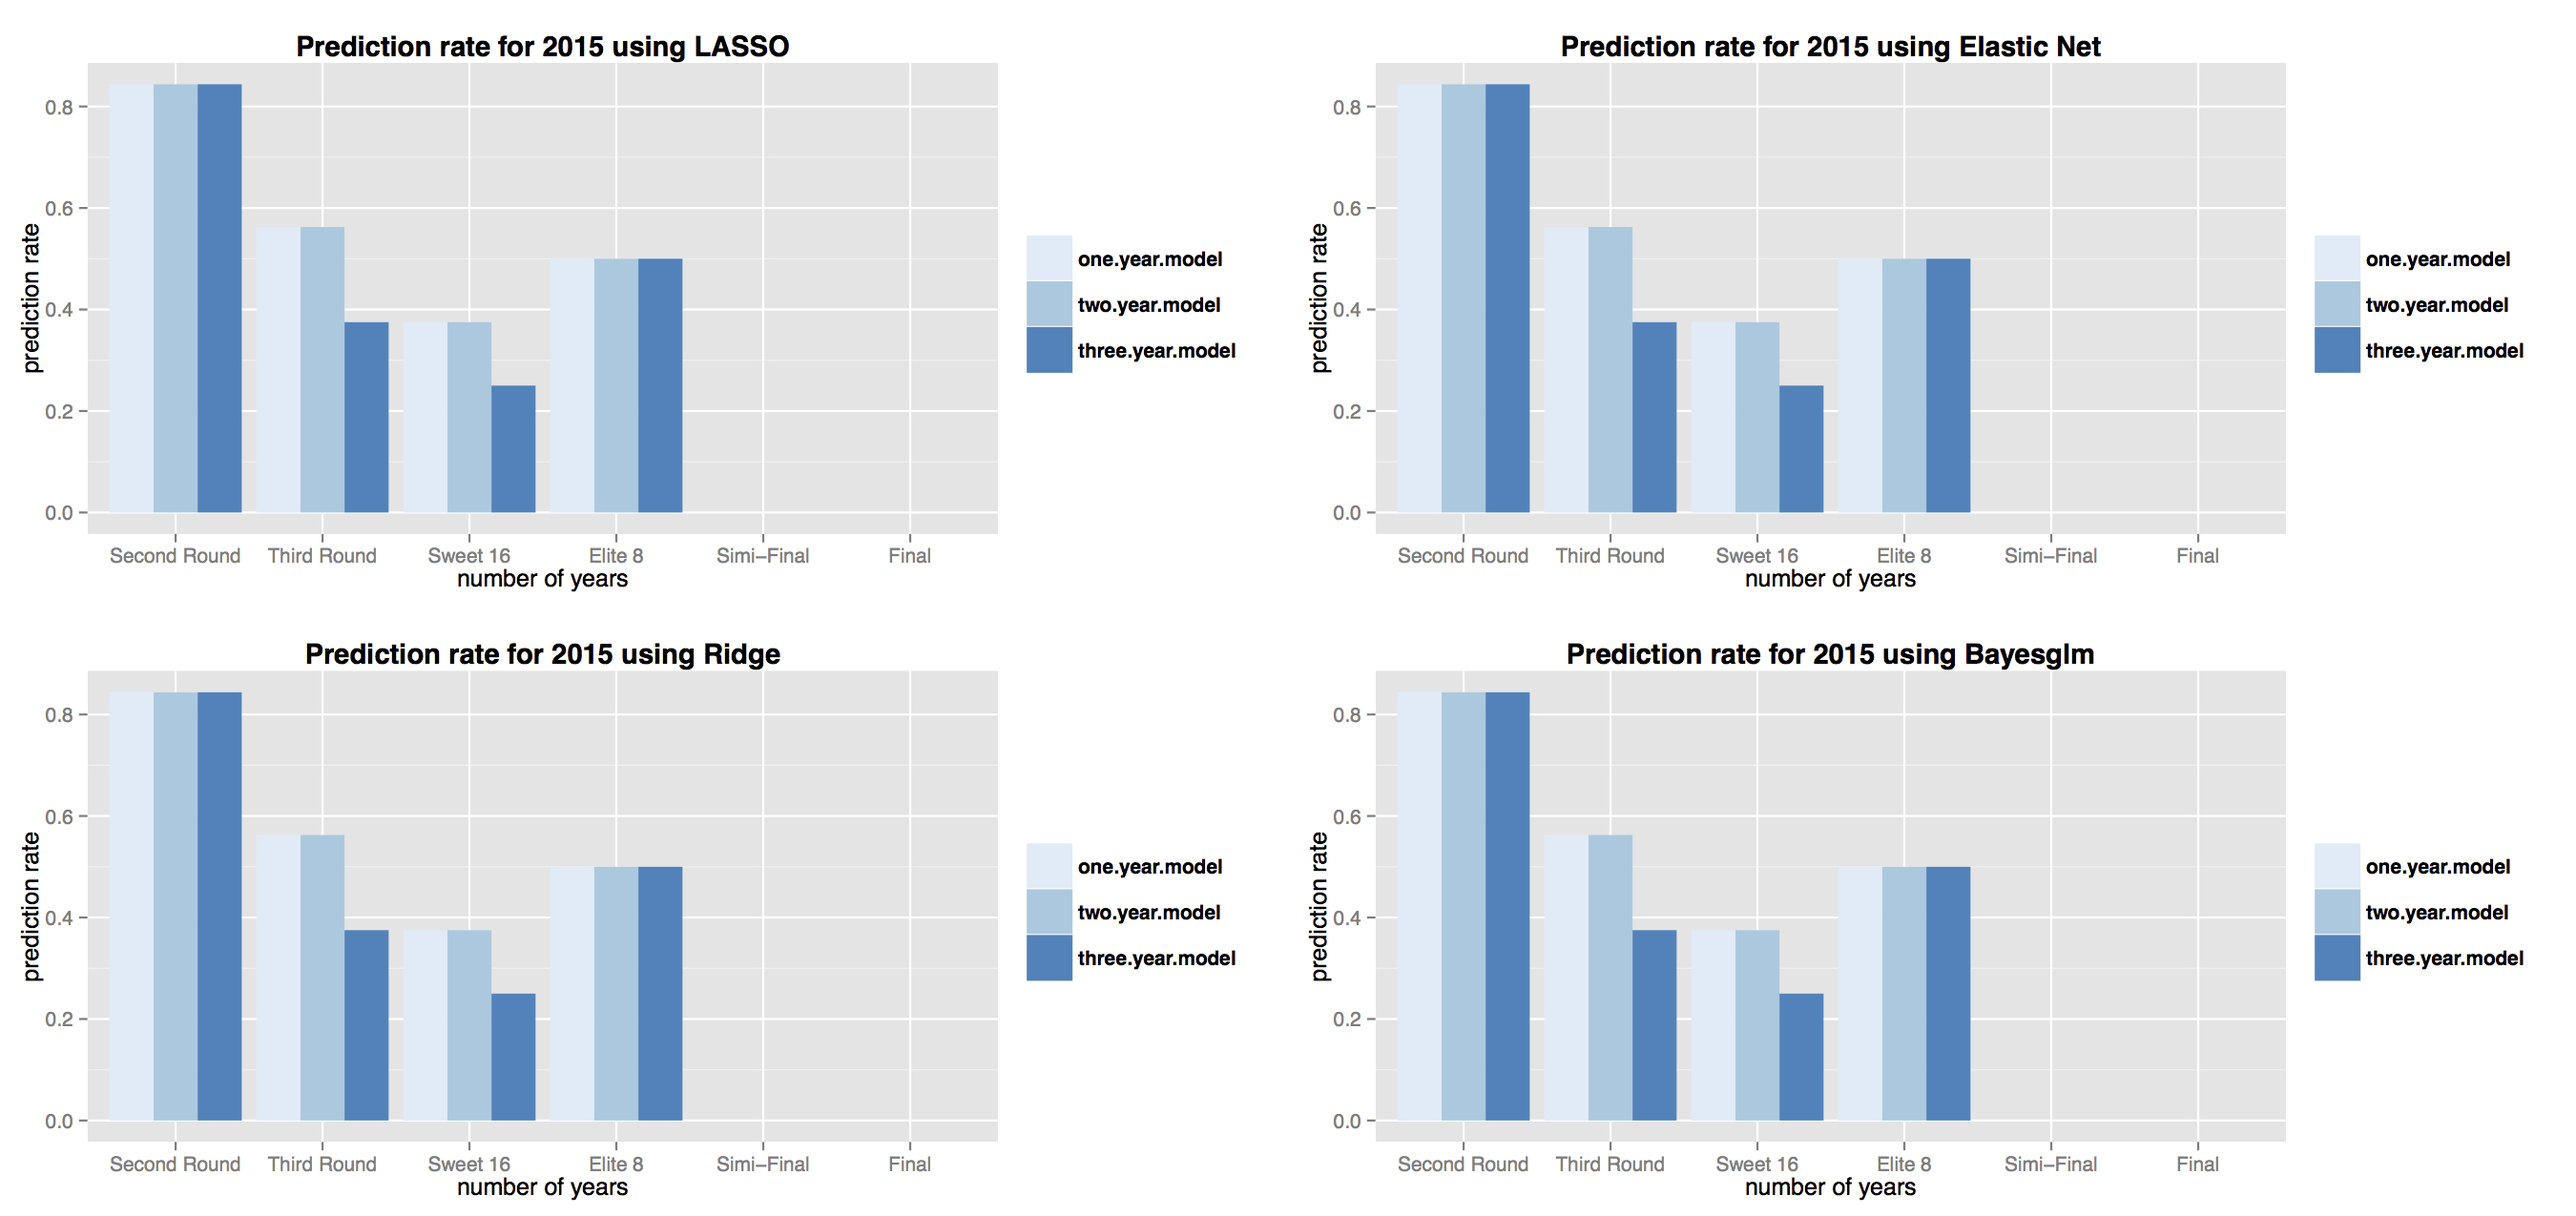
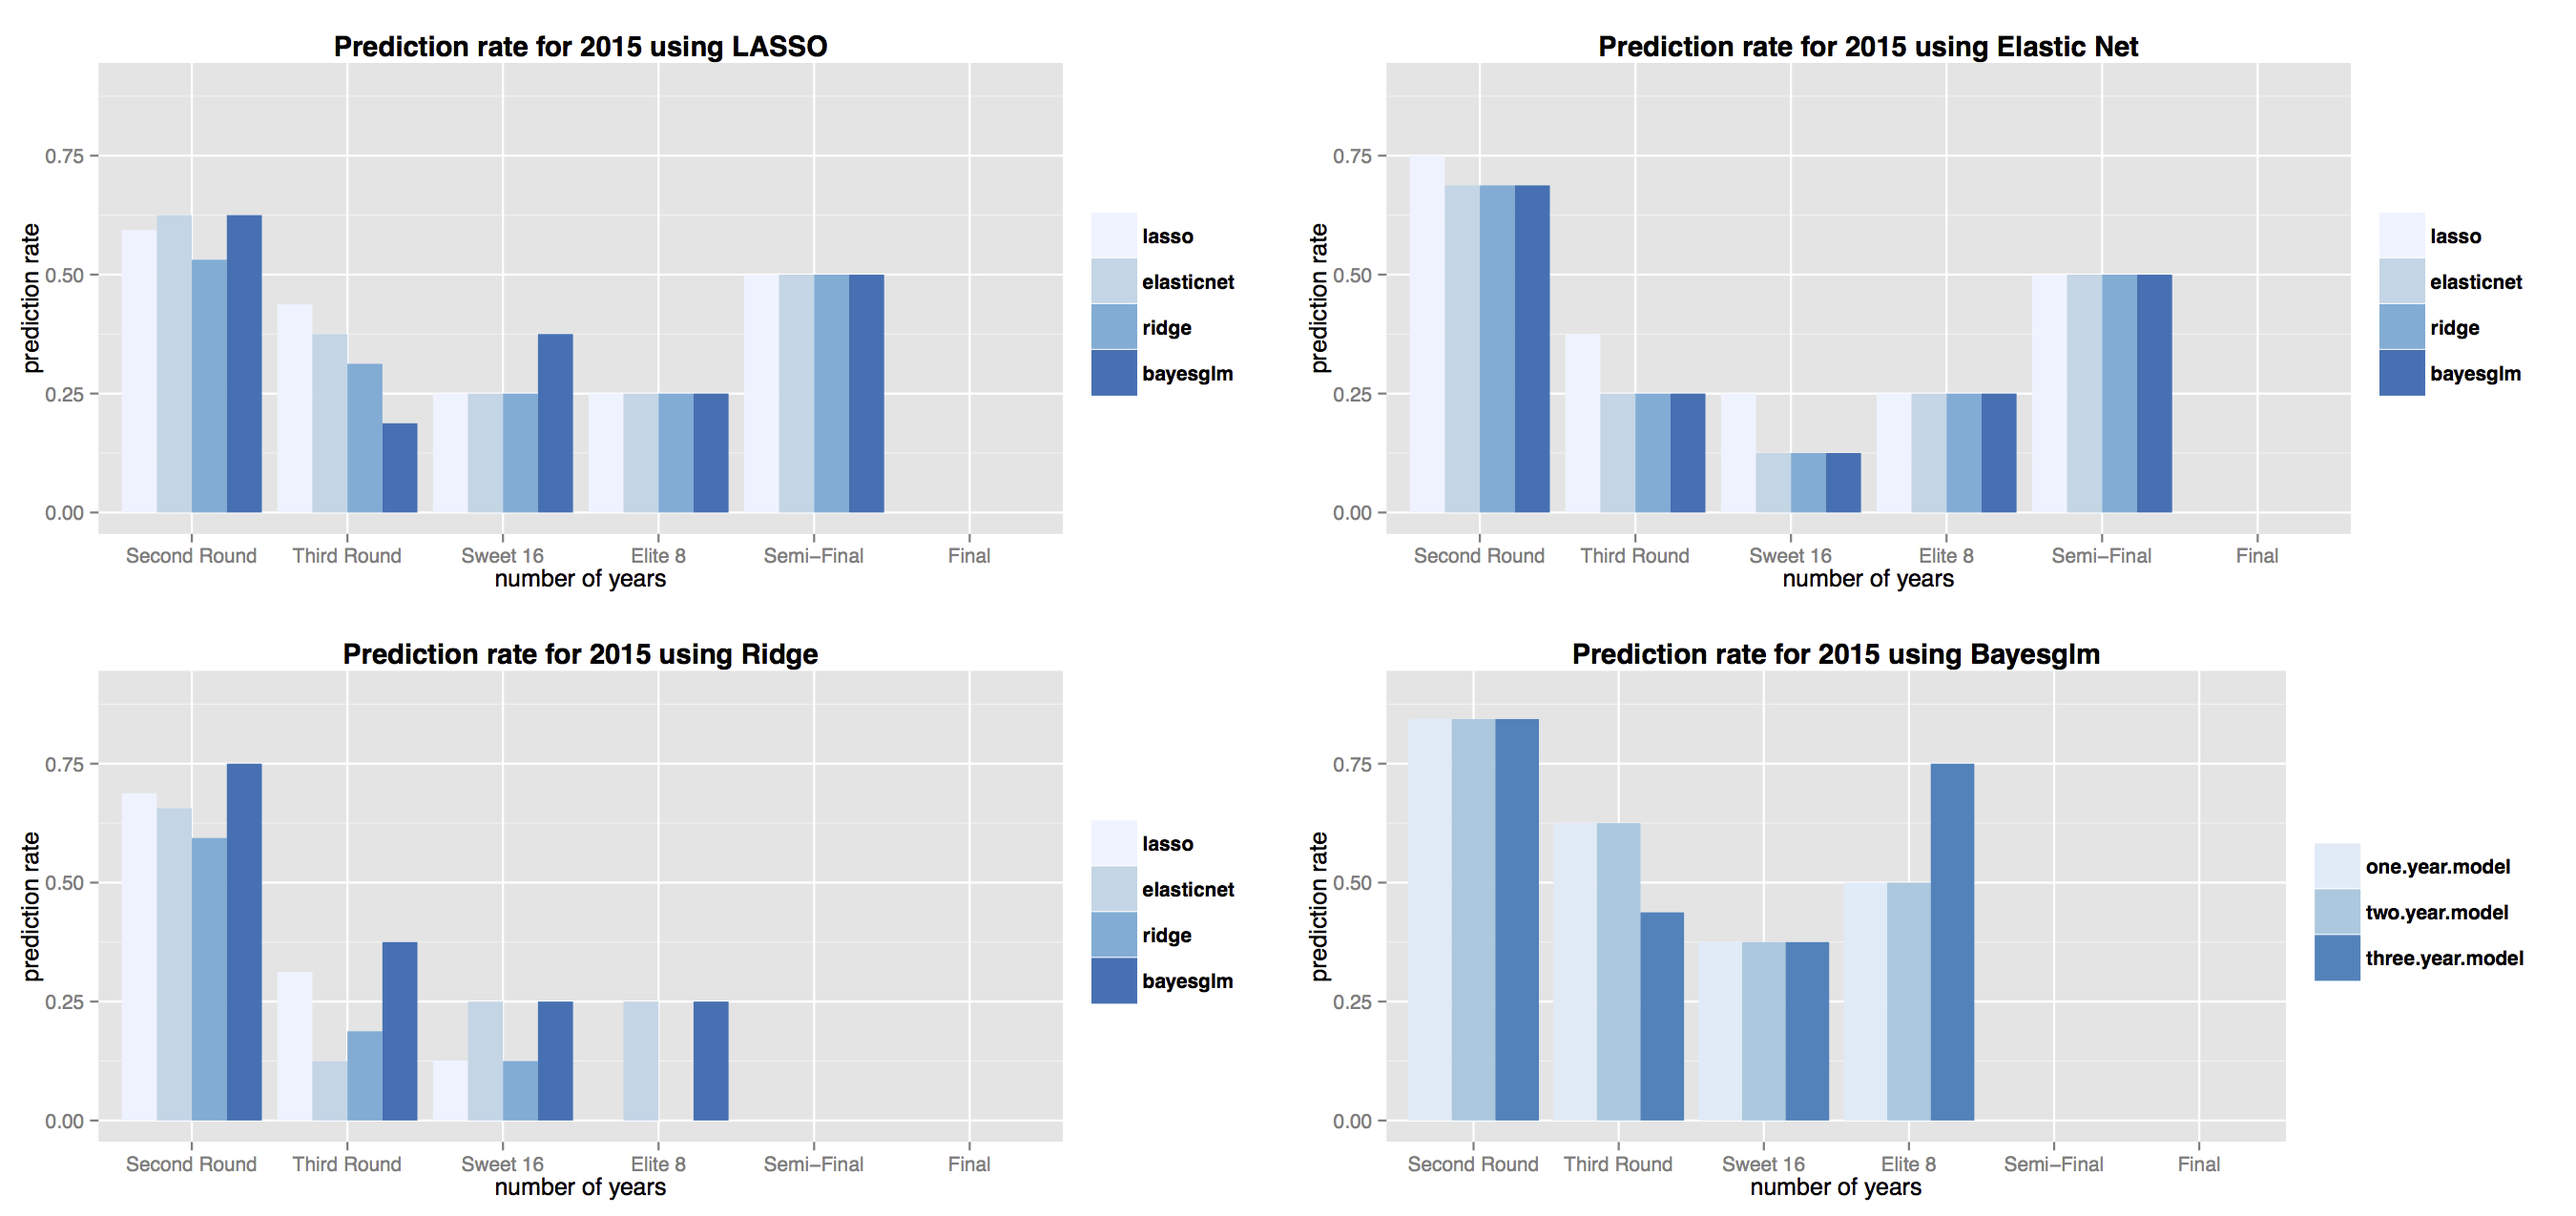
revise jpg

diff --git a/SakaiAtMidnight_Project.tex b/SakaiAtMidnight_Project.tex
@@ -218,50 +218,16 @@ This further suggests that if we want to incorporate team specifics into our mod
   \hline
  & LASSO & Elastic Net & Ridge & Bayesglm \\ 
   \hline
-Second Round & 0.594 & 0.625 & 0.531 & 0.625 \\ 
-  Third Round & 0.438 & 0.375 & 0.312 & 0.188 \\ 
-  Sweet 16 & 0.250 & 0.250 & 0.250 & 0.375 \\ 
-  Elite 8 & 0.250 & 0.250 & 0.250 & 0.250 \\ 
-  Simi-Final & 0.500 & 0.500 & 0.500 & 0.500 \\ 
+Second Round & 0.844 & 0.844 & 0.844 & 0.844 \\ 
+  Third Round & 0.375 & 0.438 & 0.500 & 0.562 \\ 
+  Sweet 16 & 0.250 & 0.375 & 0.375 & 0.375 \\ 
+  Elite 8 & 0.500 & 0.750 & 0.750 & 0.750 \\ 
+  Semi-Final & 0.000 & 0.000 & 0.000 & 0.000 \\ 
   Final & 0.000 & 0.000 & 0.000 & 0.000 \\ 
    \hline
 \end{tabular}
 }
-\caption{Prediction rate for each round in 2012}\ 
-
-\centering
-{\small
-\begin{tabular}{rrrrr}
-  \hline
- & LASSO & Elastic Net & Ridge & Bayesglm \\ 
-  \hline
-Second Round & 0.750 & 0.688 & 0.688 & 0.688 \\ 
-  Third Round & 0.375 & 0.250 & 0.250 & 0.250 \\ 
-  Sweet 16 & 0.250 & 0.125 & 0.125 & 0.125 \\ 
-  Elite 8 & 0.250 & 0.250 & 0.250 & 0.250 \\ 
-  Simi-Final & 0.500 & 0.500 & 0.500 & 0.500 \\ 
-  Final & 0.000 & 0.000 & 0.000 & 0.000 \\ 
-   \hline
-\end{tabular}
-}
-\caption{Prediction rate for each round in 2013}\ 
-
-\centering
-{\small
-\begin{tabular}{rrrrr}
-  \hline
- & LASSO & Elastic Net & Ridge & Bayesglm \\ 
-  \hline
-Second Round & 0.688 & 0.656 & 0.594 & 0.750 \\ 
-  Third Round & 0.312 & 0.125 & 0.188 & 0.375 \\ 
-  Sweet 16 & 0.125 & 0.250 & 0.125 & 0.250 \\ 
-  Elite 8 & 0.000 & 0.250 & 0.000 & 0.250 \\ 
-  Simi-Final & 0.000 & 0.000 & 0.000 & 0.000 \\ 
-  Final & 0.000 & 0.000 & 0.000 & 0.000 \\ 
-   \hline
-\end{tabular}
-}
-\caption{Prediction rate for each round in 2014}\ 
+\caption{Prediction rate for each round in 2015 using regular season data from 2013-2015}\
 
 \centering
 {\small
@@ -273,12 +239,12 @@ Second Round & 0.844 & 0.844 & 0.875 & 0.875 \\
   Third Round & 0.562 & 0.625 & 0.500 & 0.500 \\ 
   Sweet 16 & 0.375 & 0.375 & 0.375 & 0.375 \\ 
   Elite 8 & 0.500 & 0.500 & 0.750 & 0.750 \\ 
-  Simi-Final & 0.000 & 0.000 & 0.000 & 0.000 \\ 
+  Semi-Final & 0.000 & 0.000 & 0.000 & 0.000 \\ 
   Final & 0.000 & 0.000 & 0.000 & 0.000 \\ 
    \hline
 \end{tabular}
 }
-\caption{Prediction rate for each round in 2015}\
+\caption{Prediction rate for each round in 2015 using regular season data for 2015}\
 
 \centering
 {\small
@@ -286,12 +252,12 @@ Second Round & 0.844 & 0.844 & 0.875 & 0.875 \\
   \hline
  & LASSO & Elastic Net & Ridge & Bayesglm \\ 
   \hline
-Second Round & 0.84 & 0.84 & 0.88 & 0.88 \\ 
-  Third Round & 0.56 & 0.62 & 0.50 & 0.50 \\ 
-  Sweet 16 & 0.38 & 0.38 & 0.38 & 0.38 \\ 
-  Elite 8 & 0.50 & 0.50 & 0.75 & 0.75 \\ 
-  Semi-Final & 0.00 & 0.00 & 0.00 & 0.00 \\ 
-  Final & 0.00 & 0.00 & 0.00 & 0.00 \\ 
+Second Round & 0.844 & 0.844 & 0.875 & 0.875 \\ 
+  Third Round & 0.562 & 0.625 & 0.500 & 0.500 \\ 
+  Sweet 16 & 0.375 & 0.375 & 0.375 & 0.375 \\ 
+  Elite 8 & 0.500 & 0.500 & 0.750 & 0.750 \\ 
+  Semi-Final & 0.000 & 0.000 & 0.000 & 0.000 \\ 
+  Final & 0.000 & 0.000 & 0.000 & 0.000 \\ 
    \hline
 \end{tabular}
 }
@@ -303,16 +269,51 @@ Second Round & 0.84 & 0.84 & 0.88 & 0.88 \\
   \hline
  & LASSO & Elastic Net & Ridge & Bayesglm \\ 
   \hline
-Second Round & 0.84 & 0.84 & 0.84 & 0.84 \\ 
-  Third Round & 0.38 & 0.38 & 0.50 & 0.56 \\ 
-  Sweet 16 & 0.25 & 0.25 & 0.38 & 0.38 \\ 
-  Elite 8 & 0.50 & 0.50 & 0.75 & 0.75 \\ 
-  Semi-Final & 0.00 & 0.00 & 0.00 & 0.00 \\ 
-  Final & 0.00 & 0.00 & 0.00 & 0.00 \\ 
+Second Round & 0.688 & 0.656 & 0.594 & 0.750 \\ 
+  Third Round & 0.312 & 0.125 & 0.188 & 0.375 \\ 
+  Sweet 16 & 0.125 & 0.250 & 0.125 & 0.250 \\ 
+  Elite 8 & 0.000 & 0.250 & 0.000 & 0.250 \\ 
+  Semi-Final & 0.000 & 0.000 & 0.000 & 0.000 \\ 
+  Final & 0.000 & 0.000 & 0.000 & 0.000 \\ 
    \hline
 \end{tabular}
 }
-\caption{Prediction rate for each round in 2015 using regular season data from 2013-2015} 
+\caption{Prediction rate for each round in 2014 using regular season data from 2013-2014}\
+
+\centering
+{\small
+\begin{tabular}{rrrrr}
+  \hline
+ & LASSO & Elastic Net & Ridge & Bayesglm \\ 
+  \hline
+Second Round & 0.750 & 0.688 & 0.688 & 0.688 \\ 
+  Third Round & 0.375 & 0.250 & 0.250 & 0.250 \\ 
+  Sweet 16 & 0.250 & 0.125 & 0.125 & 0.125 \\ 
+  Elite 8 & 0.250 & 0.250 & 0.250 & 0.250 \\ 
+  Semi-Final & 0.500 & 0.500 & 0.500 & 0.500 \\ 
+  Final & 0.000 & 0.000 & 0.000 & 0.000 \\ 
+   \hline
+\end{tabular}
+}
+\caption{Prediction rate for each round in 2013 using regular season data from 2012-2013}\
+
+\centering
+{\small
+\begin{tabular}{rrrrr}
+  \hline
+ & LASSO & Elastic Net & Ridge & Bayesglm \\ 
+  \hline
+Second Round & 0.594 & 0.625 & 0.531 & 0.625 \\ 
+  Third Round & 0.438 & 0.375 & 0.312 & 0.188 \\ 
+  Sweet 16 & 0.250 & 0.250 & 0.250 & 0.375 \\ 
+  Elite 8 & 0.250 & 0.250 & 0.250 & 0.250 \\ 
+  Semi-Final & 0.500 & 0.500 & 0.500 & 0.500 \\ 
+  Final & 0.000 & 0.000 & 0.000 & 0.000 \\ 
+   \hline
+\end{tabular}
+}
+\caption{Prediction rate for each round in 2012 using regular season data from 2011-2012}\
+
 \end{table}
 
 
